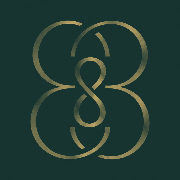
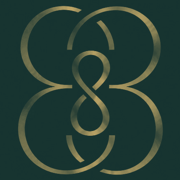
Let the monogram fill its own square
The mark sat 396 px tall inside a 512 px icon, so Google's ~16 px
favicon rendered it at about ten pixels and the strokes blurred away.
Crop every icon to the mark's measured bounds with a thin margin;
colours and line weight are untouched.

Changed region(s): [[0.0833, 0.0278, 0.9167, 0.9722], [0.4444, 0.5556, 0.4722, 0.5833]]

diff --git a/index.html b/index.html
@@ -6,11 +6,11 @@
 <meta name="google-site-verification" content="9blYG3VEf8AF-ufBJRZp0Usbsuoo36wr6eBA9zWIs0I">
 <title>Elena Daunytė — Violončelininkė ir vokalistė</title>
 <meta name="description" content="Elena Daunytė — violončelininkė, vokalistė ir LMTA dėstytoja. Tarptautinių konkursų laureatė ir Grand Prix laimėtoja, ansamblio „Regnum Musicale“ narė.">
-<link rel="icon" href="/favicon.ico" sizes="32x32">
-<link rel="icon" type="image/png" sizes="48x48" href="/img/favicon-48.png">
-<link rel="icon" type="image/png" sizes="96x96" href="/img/favicon-96.png">
-<link rel="icon" type="image/png" sizes="192x192" href="/img/icon-192.png">
-<link rel="apple-touch-icon" sizes="180x180" href="/img/apple-touch-icon.png">
+<link rel="icon" href="/favicon.ico?v=2" sizes="32x32">
+<link rel="icon" type="image/png" sizes="48x48" href="/img/favicon-48.png?v=2">
+<link rel="icon" type="image/png" sizes="96x96" href="/img/favicon-96.png?v=2">
+<link rel="icon" type="image/png" sizes="192x192" href="/img/icon-192.png?v=2">
+<link rel="apple-touch-icon" sizes="180x180" href="/img/apple-touch-icon.png?v=2">
 <link rel="manifest" href="/site.webmanifest">
 <meta name="theme-color" content="#fbfdfc">
 <link rel="alternate" hreflang="lt" href="https://elenadaunyte.com/">

diff --git a/fr/index.html b/fr/index.html
@@ -5,11 +5,11 @@
 <meta name="viewport" content="width=device-width, initial-scale=1.0">
 <title>Elena Daunytė — Violoncelliste et chanteuse</title>
 <meta name="description" content="Elena Daunytė — violoncelliste, chanteuse et enseignante à l’Académie lituanienne de musique et de théâtre. Lauréate de concours internationaux.">
-<link rel="icon" href="/favicon.ico" sizes="32x32">
-<link rel="icon" type="image/png" sizes="48x48" href="/img/favicon-48.png">
-<link rel="icon" type="image/png" sizes="96x96" href="/img/favicon-96.png">
-<link rel="icon" type="image/png" sizes="192x192" href="/img/icon-192.png">
-<link rel="apple-touch-icon" sizes="180x180" href="/img/apple-touch-icon.png">
+<link rel="icon" href="/favicon.ico?v=2" sizes="32x32">
+<link rel="icon" type="image/png" sizes="48x48" href="/img/favicon-48.png?v=2">
+<link rel="icon" type="image/png" sizes="96x96" href="/img/favicon-96.png?v=2">
+<link rel="icon" type="image/png" sizes="192x192" href="/img/icon-192.png?v=2">
+<link rel="apple-touch-icon" sizes="180x180" href="/img/apple-touch-icon.png?v=2">
 <link rel="manifest" href="/site.webmanifest">
 <meta name="theme-color" content="#fbfdfc">
 <link rel="alternate" hreflang="lt" href="https://elenadaunyte.com/">

diff --git a/en/index.html b/en/index.html
@@ -5,11 +5,11 @@
 <meta name="viewport" content="width=device-width, initial-scale=1.0">
 <title>Elena Daunytė — Cellist and Vocalist</title>
 <meta name="description" content="Elena Daunytė — cellist, vocalist and lecturer at the Lithuanian Academy of Music and Theatre. Laureate of international competitions and Grand Prix winner.">
-<link rel="icon" href="/favicon.ico" sizes="32x32">
-<link rel="icon" type="image/png" sizes="48x48" href="/img/favicon-48.png">
-<link rel="icon" type="image/png" sizes="96x96" href="/img/favicon-96.png">
-<link rel="icon" type="image/png" sizes="192x192" href="/img/icon-192.png">
-<link rel="apple-touch-icon" sizes="180x180" href="/img/apple-touch-icon.png">
+<link rel="icon" href="/favicon.ico?v=2" sizes="32x32">
+<link rel="icon" type="image/png" sizes="48x48" href="/img/favicon-48.png?v=2">
+<link rel="icon" type="image/png" sizes="96x96" href="/img/favicon-96.png?v=2">
+<link rel="icon" type="image/png" sizes="192x192" href="/img/icon-192.png?v=2">
+<link rel="apple-touch-icon" sizes="180x180" href="/img/apple-touch-icon.png?v=2">
 <link rel="manifest" href="/site.webmanifest">
 <meta name="theme-color" content="#fbfdfc">
 <link rel="alternate" hreflang="lt" href="https://elenadaunyte.com/">

diff --git a/it/index.html b/it/index.html
@@ -5,11 +5,11 @@
 <meta name="viewport" content="width=device-width, initial-scale=1.0">
 <title>Elena Daunytė — Violoncellista e vocalist</title>
 <meta name="description" content="Elena Daunytė — violoncellista, vocalist e docente all’Accademia Lituana di Musica e Teatro. Vincitrice di concorsi internazionali e del Grand Prix.">
-<link rel="icon" href="/favicon.ico" sizes="32x32">
-<link rel="icon" type="image/png" sizes="48x48" href="/img/favicon-48.png">
-<link rel="icon" type="image/png" sizes="96x96" href="/img/favicon-96.png">
-<link rel="icon" type="image/png" sizes="192x192" href="/img/icon-192.png">
-<link rel="apple-touch-icon" sizes="180x180" href="/img/apple-touch-icon.png">
+<link rel="icon" href="/favicon.ico?v=2" sizes="32x32">
+<link rel="icon" type="image/png" sizes="48x48" href="/img/favicon-48.png?v=2">
+<link rel="icon" type="image/png" sizes="96x96" href="/img/favicon-96.png?v=2">
+<link rel="icon" type="image/png" sizes="192x192" href="/img/icon-192.png?v=2">
+<link rel="apple-touch-icon" sizes="180x180" href="/img/apple-touch-icon.png?v=2">
 <link rel="manifest" href="/site.webmanifest">
 <meta name="theme-color" content="#fbfdfc">
 <link rel="alternate" hreflang="lt" href="https://elenadaunyte.com/">

diff --git a/de/index.html b/de/index.html
@@ -5,11 +5,11 @@
 <meta name="viewport" content="width=device-width, initial-scale=1.0">
 <title>Elena Daunytė — Cellistin und Sängerin</title>
 <meta name="description" content="Elena Daunytė — Cellistin, Sängerin und Dozentin an der Litauischen Musik- und Theaterakademie. Preisträgerin internationaler Wettbewerbe.">
-<link rel="icon" href="/favicon.ico" sizes="32x32">
-<link rel="icon" type="image/png" sizes="48x48" href="/img/favicon-48.png">
-<link rel="icon" type="image/png" sizes="96x96" href="/img/favicon-96.png">
-<link rel="icon" type="image/png" sizes="192x192" href="/img/icon-192.png">
-<link rel="apple-touch-icon" sizes="180x180" href="/img/apple-touch-icon.png">
+<link rel="icon" href="/favicon.ico?v=2" sizes="32x32">
+<link rel="icon" type="image/png" sizes="48x48" href="/img/favicon-48.png?v=2">
+<link rel="icon" type="image/png" sizes="96x96" href="/img/favicon-96.png?v=2">
+<link rel="icon" type="image/png" sizes="192x192" href="/img/icon-192.png?v=2">
+<link rel="apple-touch-icon" sizes="180x180" href="/img/apple-touch-icon.png?v=2">
 <link rel="manifest" href="/site.webmanifest">
 <meta name="theme-color" content="#fbfdfc">
 <link rel="alternate" hreflang="lt" href="https://elenadaunyte.com/">

diff --git a/sv/index.html b/sv/index.html
@@ -5,11 +5,11 @@
 <meta name="viewport" content="width=device-width, initial-scale=1.0">
 <title>Elena Daunytė — Cellist och vokalist</title>
 <meta name="description" content="Elena Daunytė — cellist, vokalist och lärare vid Litauens musik- och teaterakademi. Vinnare av internationella tävlingar och Grand Prix.">
-<link rel="icon" href="/favicon.ico" sizes="32x32">
-<link rel="icon" type="image/png" sizes="48x48" href="/img/favicon-48.png">
-<link rel="icon" type="image/png" sizes="96x96" href="/img/favicon-96.png">
-<link rel="icon" type="image/png" sizes="192x192" href="/img/icon-192.png">
-<link rel="apple-touch-icon" sizes="180x180" href="/img/apple-touch-icon.png">
+<link rel="icon" href="/favicon.ico?v=2" sizes="32x32">
+<link rel="icon" type="image/png" sizes="48x48" href="/img/favicon-48.png?v=2">
+<link rel="icon" type="image/png" sizes="96x96" href="/img/favicon-96.png?v=2">
+<link rel="icon" type="image/png" sizes="192x192" href="/img/icon-192.png?v=2">
+<link rel="apple-touch-icon" sizes="180x180" href="/img/apple-touch-icon.png?v=2">
 <link rel="manifest" href="/site.webmanifest">
 <meta name="theme-color" content="#fbfdfc">
 <link rel="alternate" hreflang="lt" href="https://elenadaunyte.com/">
